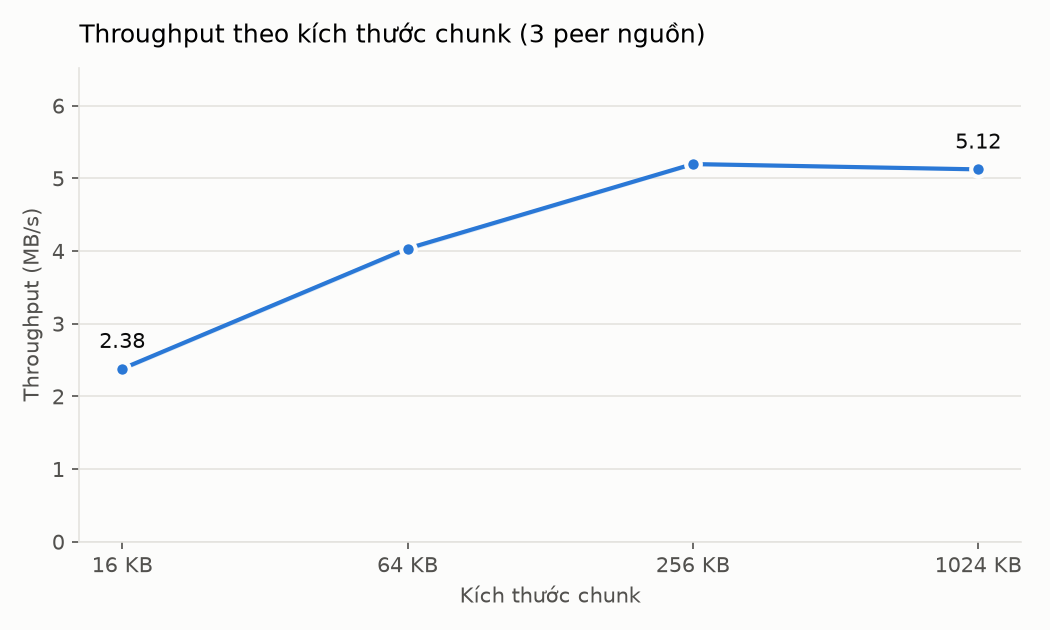
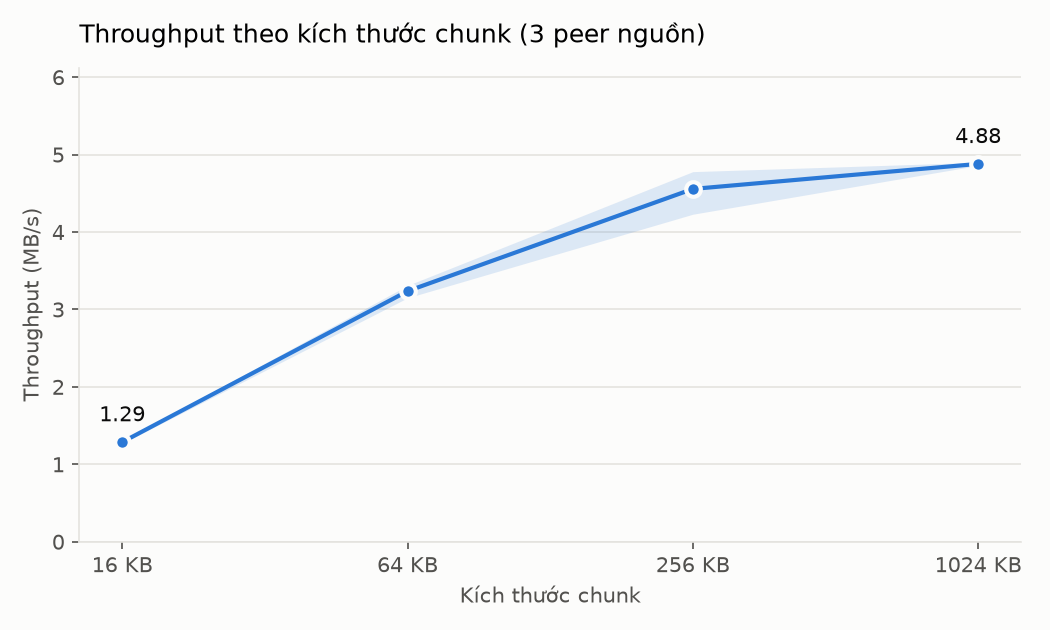
bench: số liệu đo lại bằng engine thật sau khi sửa cân bằng tải

diff --git a/docs/benchmark/results.md b/docs/benchmark/results.md
@@ -1,32 +1,36 @@
 # Kết quả đo hiệu năng DS02
 
-- Thời điểm đo: 2026-10-13 17:51:04
+- Thời điểm đo: 2026-11-02 23:00:24
 - Máy: Windows 11 | Python 3.13.2 | 16 CPU
 - File thử nghiệm: 8 MB dữ liệu ngẫu nhiên; mỗi cấu hình chạy 3 lần, lấy trung bình
 - Giới hạn tải đồng thời của leecher: 5 chunk
 - Băng thông upload mô phỏng: 2 MB/s mỗi seeder
 - Mỗi seeder là một tiến trình riêng; giao tiếp gRPC qua loopback (127.0.0.1)
+- Leecher dùng vòng tải tự động của hệ thống (rarest-first + chọn nguồn ít tải nhất `_choose_peer`);
+  benchmark không tự phân chunk cho seeder
 - Không có Tracker trong thí nghiệm (danh sách peer cho trước), announce được tắt
 
 ## Thí nghiệm A – Theo số peer nguồn (chunk 256 KB)
 
-| Số peer nguồn | Thời gian TB (s) | Min – Max (s) | Throughput TB (MB/s) | Speedup |
-|:---:|:---:|:---:|:---:|:---:|
-| 1 | 4.433 | 4.413 – 4.444 | 1.80 | 1.00x |
-| 2 | 2.208 | 2.176 – 2.233 | 3.62 | 2.01x |
-| 3 | 1.537 | 1.518 – 1.548 | 5.21 | 2.88x |
-| 5 | 1.046 | 1.016 – 1.079 | 7.65 | 4.24x |
-| 10 | 1.051 | 1.042 – 1.069 | 7.61 | 4.22x |
+| Số peer nguồn | Thời gian TB (s) | Min – Max (s) | Throughput TB (MB/s) | Speedup | Nguồn được dùng | Chunk/nguồn (min – max) |
+|:---:|:---:|:---:|:---:|:---:|:---:|:---:|
+| 1 | 4.485 | 4.455 – 4.538 | 1.78 | 1.00x | 1/1 | 32 – 32 |
+| 2 | 2.332 | 2.317 – 2.347 | 3.43 | 1.92x | 2/2 | 16 – 16 |
+| 3 | 1.774 | 1.673 – 1.853 | 4.52 | 2.53x | 3/3 | 10 – 12 |
+| 5 | 1.233 | 1.205 – 1.276 | 6.49 | 3.64x | 5/5 | 6 – 7 |
+| 10 | 1.287 | 1.247 – 1.339 | 6.22 | 3.48x | 9/10 | 0 – 5 |
 
 ## Thí nghiệm B – Theo kích thước chunk (3 peer nguồn)
 
 | Chunk size | Số chunk | Thời gian TB (s) | Min – Max (s) | Throughput TB (MB/s) |
 |:---:|:---:|:---:|:---:|:---:|
-| 16 KB | 512 | 3.360 | 3.316 – 3.401 | 2.38 |
-| 64 KB | 128 | 1.983 | 1.967 – 1.998 | 4.03 |
-| 256 KB | 32 | 1.540 | 1.533 – 1.546 | 5.20 |
-| 1024 KB | 8 | 1.561 | 1.557 – 1.566 | 5.12 |
+| 16 KB | 512 | 6.225 | 6.178 – 6.291 | 1.29 |
+| 64 KB | 128 | 2.474 | 2.421 – 2.538 | 3.24 |
+| 256 KB | 32 | 1.761 | 1.673 – 1.893 | 4.56 |
+| 1024 KB | 8 | 1.640 | 1.633 – 1.646 | 4.88 |
 
 > Lưu ý khi phân tích: các tiến trình cùng chạy trên một máy qua loopback. Giới hạn băng thông
 > upload được mô phỏng bằng phần mềm (sleep theo số byte gửi), không phải đo mạng vật lý.
-> Speedup bị chặn trên bởi giới hạn tải đồng thời của leecher (5 chunk).
+> Speedup bị chặn trên bởi giới hạn tải đồng thời của leecher (5 chunk):
+> với nhiều hơn 5 nguồn, mỗi thời điểm chỉ tối đa 5 nguồn được dùng song song.
+> Cột *Chunk/nguồn* cho biết engine đã chia tải giữa các nguồn đều đến mức nào (min – max qua các lần chạy).
